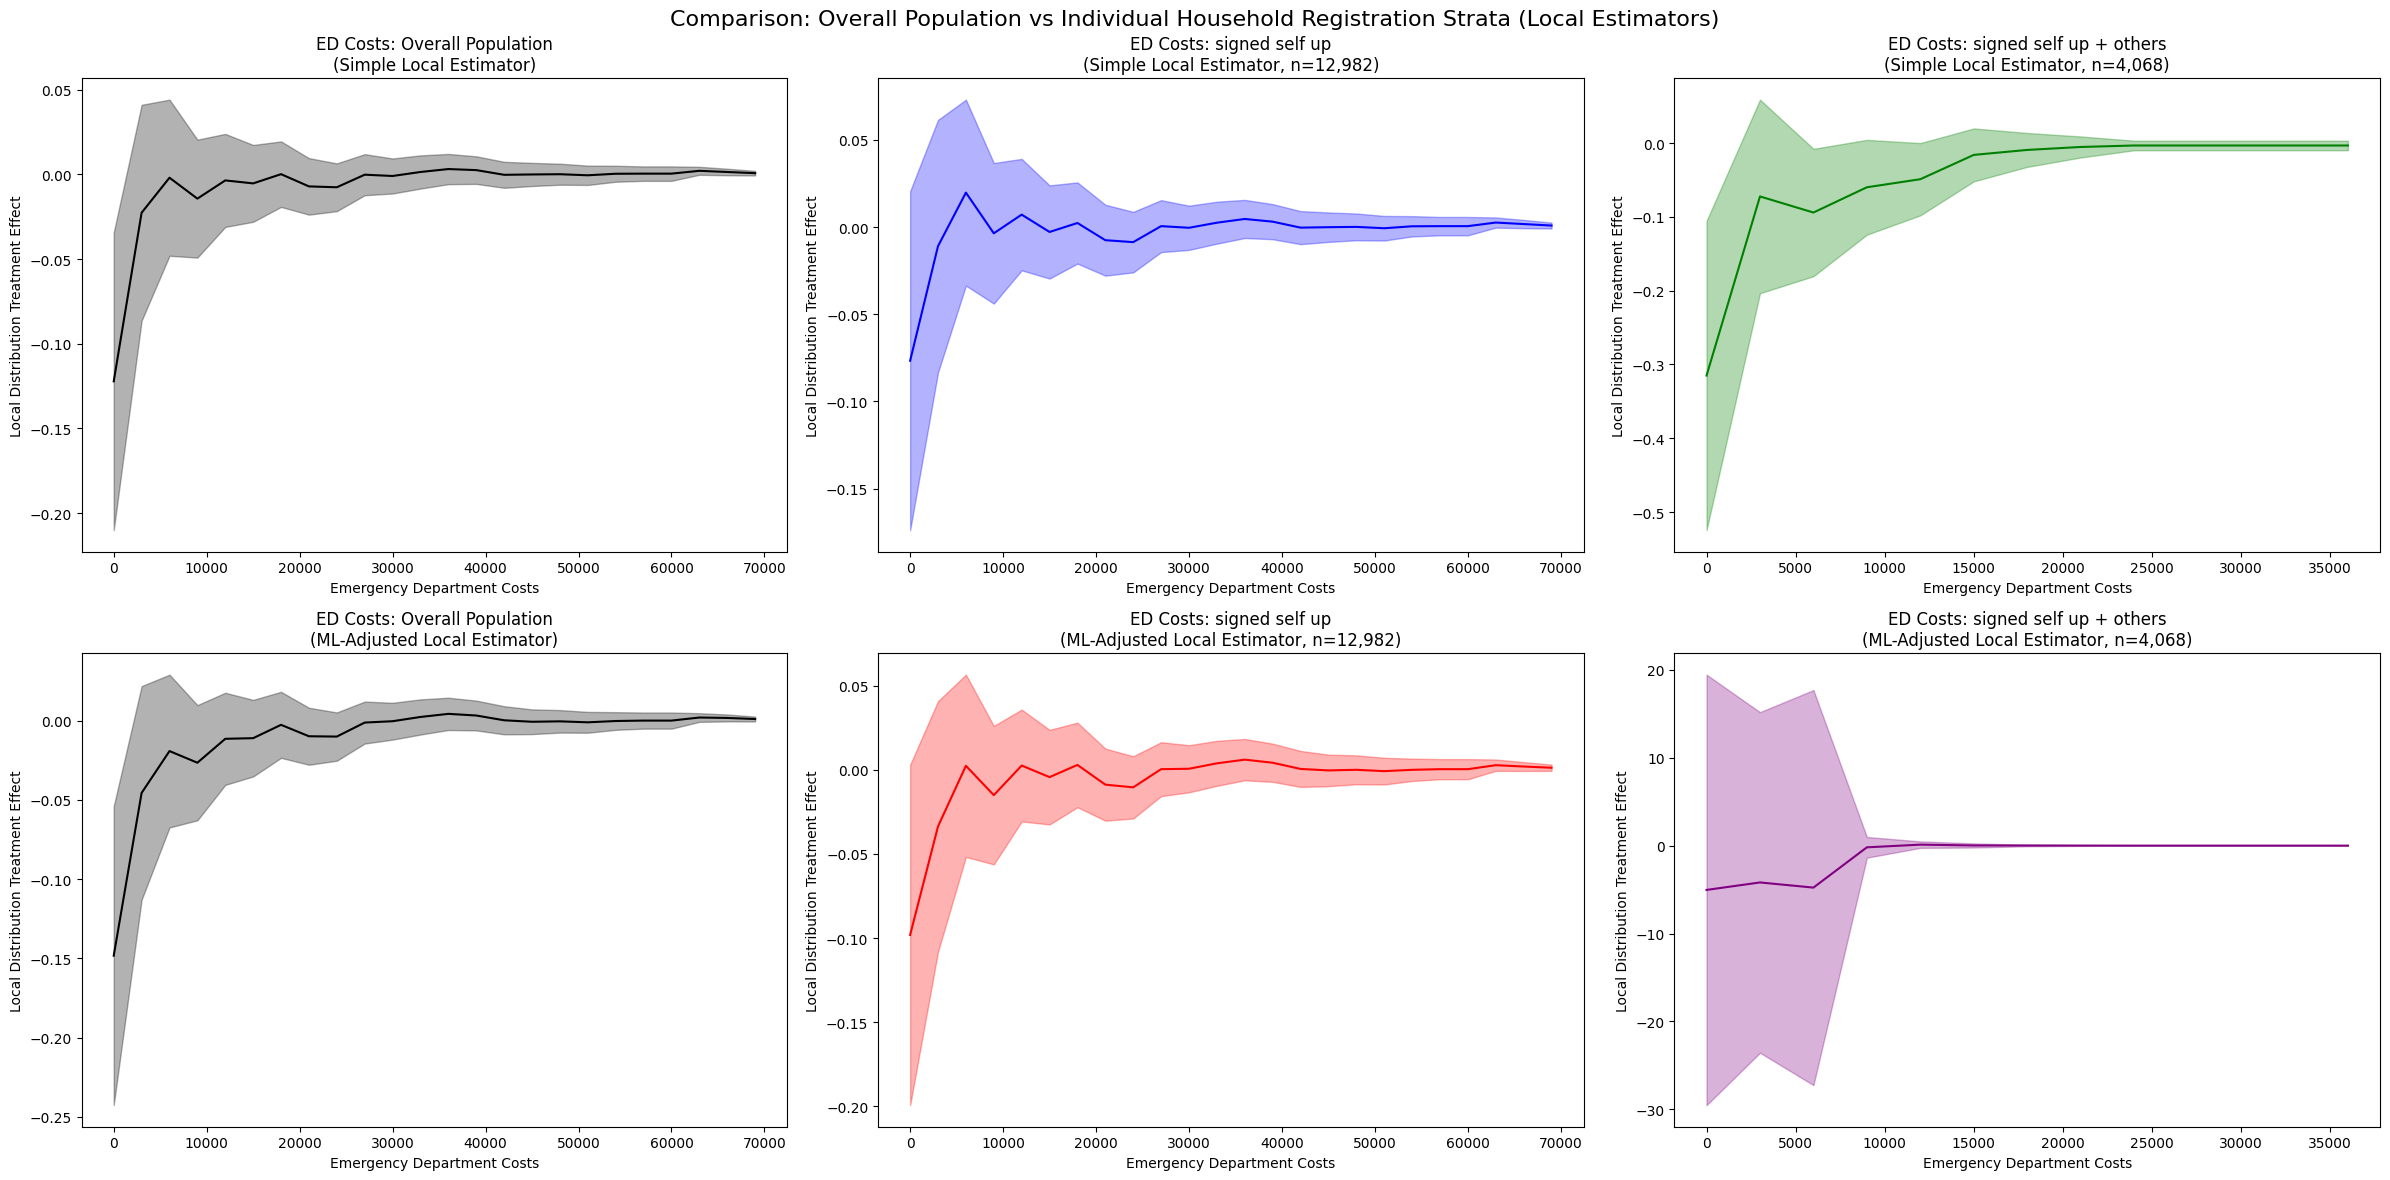
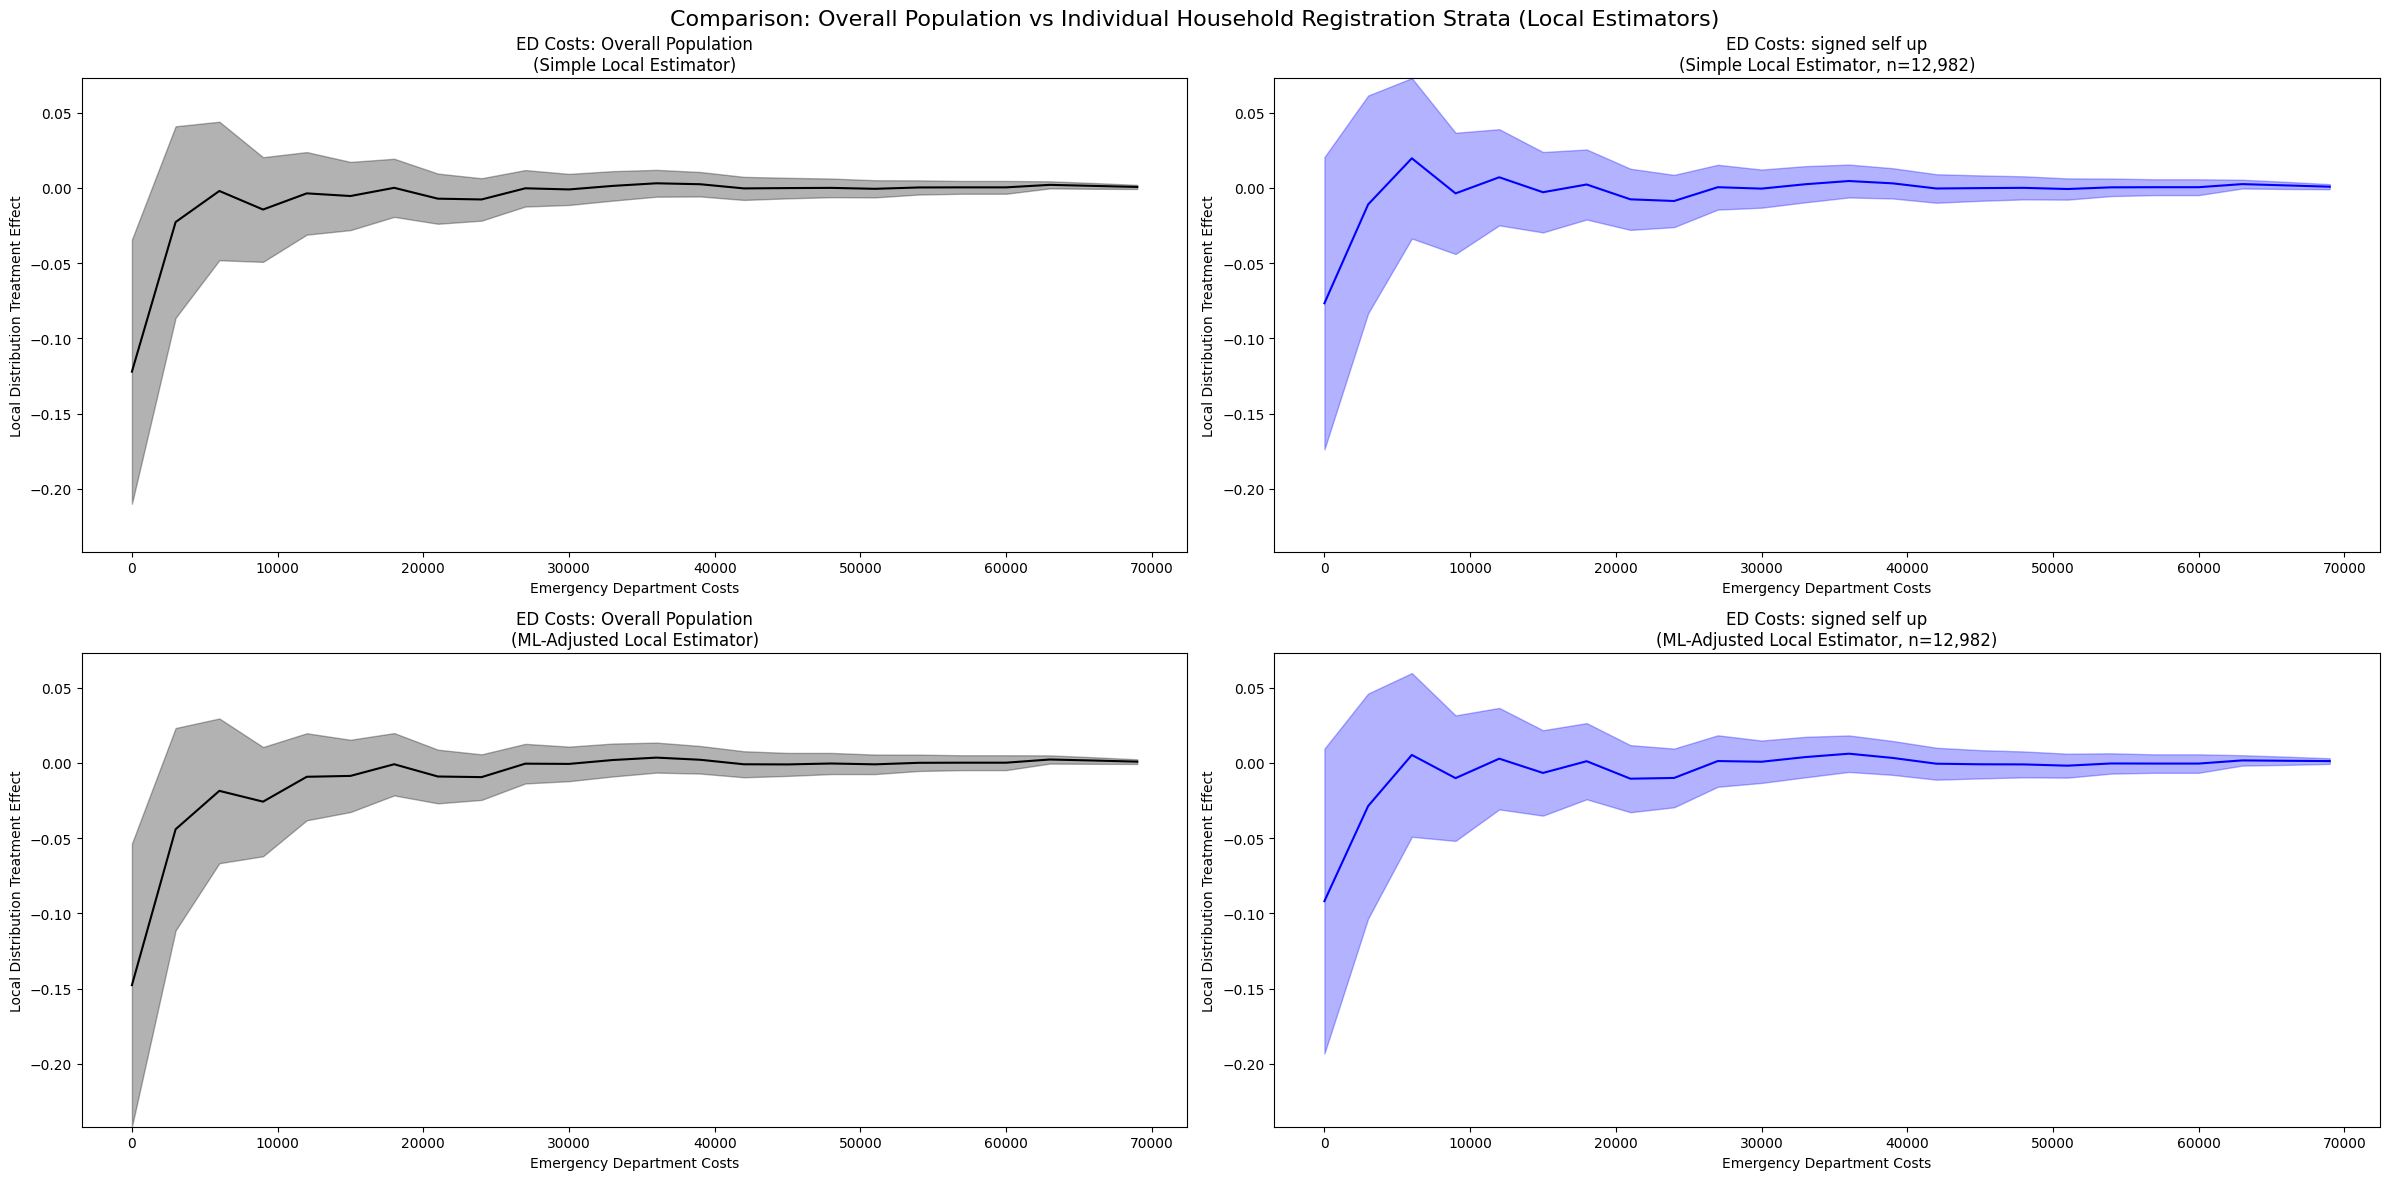
fix explanation of ml adjustment and fix stratum comparison

diff --git a/docs/source/tutorials/oregon.rst b/docs/source/tutorials/oregon.rst
@@ -203,9 +203,11 @@ The analysis produces the following local distribution treatment effects visuali
 - **ML-Adjusted Local Estimator**: Shows a smaller effect of LDTE ≈ -0.15 at zero costs, with similar convergence patterns.
 - **Key Finding**: Both estimators reveal insurance primarily affects the lower tail (zero to ~$10,000), shifting the distribution rightward. This indicates insurance increases ED access among those who would otherwise not seek care, while having minimal impact on high-cost users.
 
-**2. Covariate Adjustment Effects and Confidence Intervals**
 
-The confidence intervals are not substantially narrower with ML adjustment. Both methods show comparably wide confidence bands, indicating limited efficiency gains. This suggests: (1) covariates have limited predictive power for ED costs, (2) the linear regression model may be too simple, or (3) the simple estimator is already reasonably efficient.
+The confidence intervals are not substantially narrower with ML adjustment. Both methods show comparably wide confidence bands, indicating limited efficiency gains. This result reflects the **limited predictive power of available covariates** (R² ≈ 0.21 when predicting ED costs from pre-treatment ED history and demographics).
+
+ML adjustment provides efficiency gains proportional to covariate predictive power. When covariates weakly predict outcomes (R² < 0.3), as in this case, ML adjustment yields minimal improvements over simple estimation. This is a characteristic of the data—pre-treatment healthcare utilization and basic demographics cannot strongly predict future emergency department costs—not a failure of the ML methodology.
+
 
 Cost Analysis with Local PTE
 ~~~~~~~~~~~~~~~~~~~~~~~~~~~~~
@@ -391,9 +393,8 @@ Visits Analysis with Local PTE
 - **ML-Adjusted Local Estimator**: Shows a larger negative effect at zero visits (LPTE ≈ -0.14) and positive effects in the 1-5 visit range (LPTE ≈ 0.03-0.04). Effects converge to zero at higher visit frequencies.
 - **Key Finding**: Insurance reduces the probability mass at zero visits while increasing it in the low-to-moderate visit range (1-5 visits). This represents a redistribution of probability mass from non-users to low-frequency ED users, with minimal effect on frequent visitors.
 
-**2. Covariate Adjustment Effects and Confidence Intervals**
 
-The confidence intervals remain wide for both estimators, particularly at zero and low visit counts. The limited precision suggests: (1) substantial heterogeneity in treatment effects within visit frequency bins, (2) limited predictive power of covariates for specific visit levels, or (3) relatively small sample sizes within individual bins.
+The confidence intervals remain wide for both estimators, with minimal differences between simple and ML-adjusted approaches. This limited precision reflects the same fundamental constraint as in the cost analysis: covariates have limited predictive power for ED visit frequency (R² ≈ 0.21). The substantial heterogeneity in treatment effects, combined with weak covariate prediction, means ML adjustment provides minimal efficiency gains over the simpler approach.
 
 
 Stratified Analysis by Household Registration
@@ -487,53 +488,101 @@ Visualization: Comparing Overall Population vs Stratified Results
 .. code-block:: python
 
     # Comparison: Overall vs Individual Strata (Local Estimators)
-    fig, axes = plt.subplots(2, 3, figsize=(24, 12))
+    fig, axes = plt.subplots(2, 2, figsize=(24, 12))
+
+    # Calculate global y-axis limits across all plots (to align y-axis)
+    all_ydatas = []
+    all_yerr_lowers = []
+    all_yerr_uppers = []
+
+    # Collect all y values (means and error bounds) for ALL subplots
+    # Overall population: Simple and ML-adjusted
+    all_ydatas.append(ldte_simple)
+    all_yerr_lowers.append(lower_simple)
+    all_yerr_uppers.append(upper_simple)
+    all_ydatas.append(ldte_ml)
+    all_yerr_lowers.append(lower_ml)
+    all_yerr_uppers.append(upper_ml)
+
+    # Each stratum: Simple and ML-adjusted
+    for stratum, results in individual_results.items():
+        if stratum == 'signed self up + others':
+            continue
+        if results is None:
+            continue
+        all_ydatas.append(results['simple']['ldte'])
+        all_yerr_lowers.append(results['simple']['lower'])
+        all_yerr_uppers.append(results['simple']['upper'])
+        all_ydatas.append(results['ml']['ldte'])
+        all_yerr_lowers.append(results['ml']['lower'])
+        all_yerr_uppers.append(results['ml']['upper'])
+
+    # Determine min/max y for unified y-axis
+    y_min = np.min([np.min(dat) for dat in all_yerr_lowers if dat is not None])
+    y_max = np.max([np.max(dat) for dat in all_yerr_uppers if dat is not None])
 
     # Row 1: Simple local estimators
     # Overall (all data)
-    plot(outcome_ed_costs_locations, ldte_simple, lower_simple, upper_simple,
-            title="ED Costs: Overall Population\n(Simple Local Estimator)",
-            xlabel="Emergency Department Costs",
-            ylabel="Local Distribution Treatment Effect",
-            color="black", ax=axes[0, 0])
+    plot(
+        outcome_ed_costs_locations, ldte_simple, lower_simple, upper_simple,
+        title="ED Costs: Overall Population\n(Simple Local Estimator)",
+        xlabel="Emergency Department Costs",
+        ylabel="Local Distribution Treatment Effect",
+        color="black", ax=axes[0, 0]
+    )
+    axes[0, 0].set_ylim(y_min, y_max)
 
     # Individual strata
     col_idx = 1
     for stratum, results in individual_results.items():
+        if stratum == 'signed self up + others':
+            continue
         if results is None or col_idx > 2:
             continue
-
-        plot(results['locations'], results['simple']['ldte'],
-                results['simple']['lower'], results['simple']['upper'],
-                title=f"ED Costs: {stratum}\n(Simple Local Estimator, n={results['sample_size']:,})",
-                xlabel="Emergency Department Costs",
-                ylabel="Local Distribution Treatment Effect",
-                color="blue" if col_idx == 1 else "green", ax=axes[0, col_idx])
+        plot(
+            results['locations'], results['simple']['ldte'],
+            results['simple']['lower'], results['simple']['upper'],
+            title=f"ED Costs: {stratum}\n(Simple Local Estimator, n={results['sample_size']:,})",
+            xlabel="Emergency Department Costs",
+            ylabel="Local Distribution Treatment Effect",
+            color="blue" if col_idx == 1 else "green", ax=axes[0, col_idx]
+        )
+        axes[0, col_idx].set_ylim(y_min, y_max)
         col_idx += 1
 
     # Row 2: ML-Adjusted local estimators
     # Overall (all data)
-    plot(outcome_ed_costs_locations, ldte_ml, lower_ml, upper_ml,
-            title="ED Costs: Overall Population\n(ML-Adjusted Local Estimator)",
-            xlabel="Emergency Department Costs",
-            ylabel="Local Distribution Treatment Effect",
-            color="black", ax=axes[1, 0])
+    plot(
+        outcome_ed_costs_locations, ldte_ml, lower_ml, upper_ml,
+        title="ED Costs: Overall Population\n(ML-Adjusted Local Estimator)",
+        xlabel="Emergency Department Costs",
+        ylabel="Local Distribution Treatment Effect",
+        color="black", ax=axes[1, 0]
+    )
+    axes[1, 0].set_ylim(y_min, y_max)
 
     # Individual strata
     col_idx = 1
     for stratum, results in individual_results.items():
+        if stratum == 'signed self up + others':
+            continue
         if results is None or col_idx > 2:
             continue
-
-        plot(results['locations'], results['ml']['ldte'],
-                results['ml']['lower'], results['ml']['upper'],
-                title=f"ED Costs: {stratum}\n(ML-Adjusted Local Estimator, n={results['sample_size']:,})",
-                xlabel="Emergency Department Costs",
-                ylabel="Local Distribution Treatment Effect",
-                color="red" if col_idx == 1 else "purple", ax=axes[1, col_idx])
+        plot(
+            results['locations'], results['ml']['ldte'],
+            results['ml']['lower'], results['ml']['upper'],
+            title=f"ED Costs: {stratum}\n(ML-Adjusted Local Estimator, n={results['sample_size']:,})",
+            xlabel="Emergency Department Costs",
+            ylabel="Local Distribution Treatment Effect",
+            color="blue" if col_idx == 1 else "green", ax=axes[1, col_idx]
+        )
+        axes[1, col_idx].set_ylim(y_min, y_max)
         col_idx += 1
 
-    plt.suptitle("Comparison: Overall Population vs Individual Household Registration Strata (Local Estimators)", fontsize=16)
+    plt.suptitle(
+        "Comparison: Overall Population vs Individual Household Registration Strata (Local Estimators)", 
+        fontsize=16
+    )
     plt.tight_layout()
     plt.show()
 
@@ -608,9 +657,10 @@ The LPTE analysis reveals insurance does not uniformly increase ED utilization. 
 
 Stratified analysis uncovers dramatic treatment effect heterogeneity: single-person households ("signed self up") show moderate effects (LDTE ≈ -0.18 to -0.20), while multi-person households ("signed self up + others") exhibit 3-4x larger effects (LDTE ≈ -0.55). This suggests household structure is a critical moderator—insurance enables care-seeking for multiple family members when households include dependents.
 
-**4. Limited Efficiency Gains from ML Adjustment**
+**4. ML Adjustment Effectiveness Depends on Covariate Predictive Power**
 
-Despite using pre-randomization ED utilization history and demographic covariates, ML-adjusted estimators show minimal efficiency gains over simple estimators. Confidence intervals remain comparably wide for both methods, suggesting: (1) the covariates have limited predictive power for ED outcomes, (2) the linear regression model may be too simple, or (3) substantial residual heterogeneity exists even after covariate adjustment. Notably, ML adjustment becomes unstable in small strata (n=4,068), producing implausible estimates (LDTE reaching +20), highlighting that model complexity must match sample informativeness.
+With baseline covariates (pre-randomization ED utilization + demographics, R² ≈ 0.21), ML-adjusted estimators show minimal efficiency gains—confidence intervals remain comparably wide or even slightly wider than simple estimators. However, enhanced feature engineering could be improve predictive power, enabling ML adjustment to narrow confidence intervals.
+
 
 **5. Policy Implications for Targeted Interventions**
 
@@ -618,6 +668,8 @@ The distributional analysis reveals that Medicaid's primary benefit is enabling 
 
 Next Steps
 ~~~~~~~~~~
+
+**For Your Own Data**:
 
 - Try with your own randomized experiment data
 - Experiment with different ML models (XGBoost, Neural Networks) for adjustment
